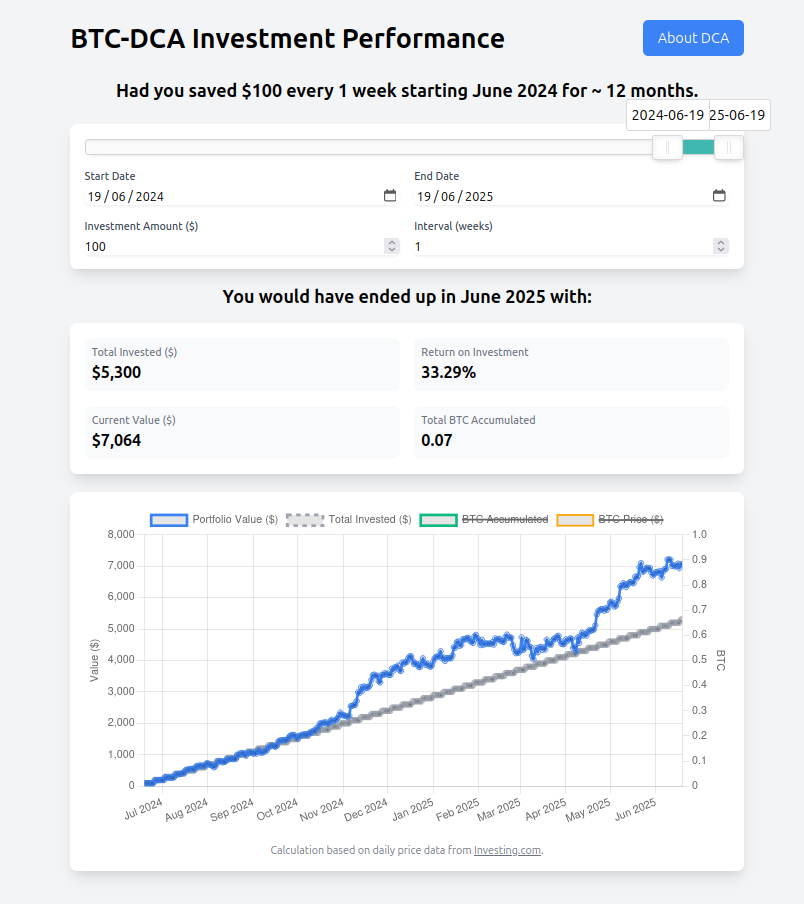
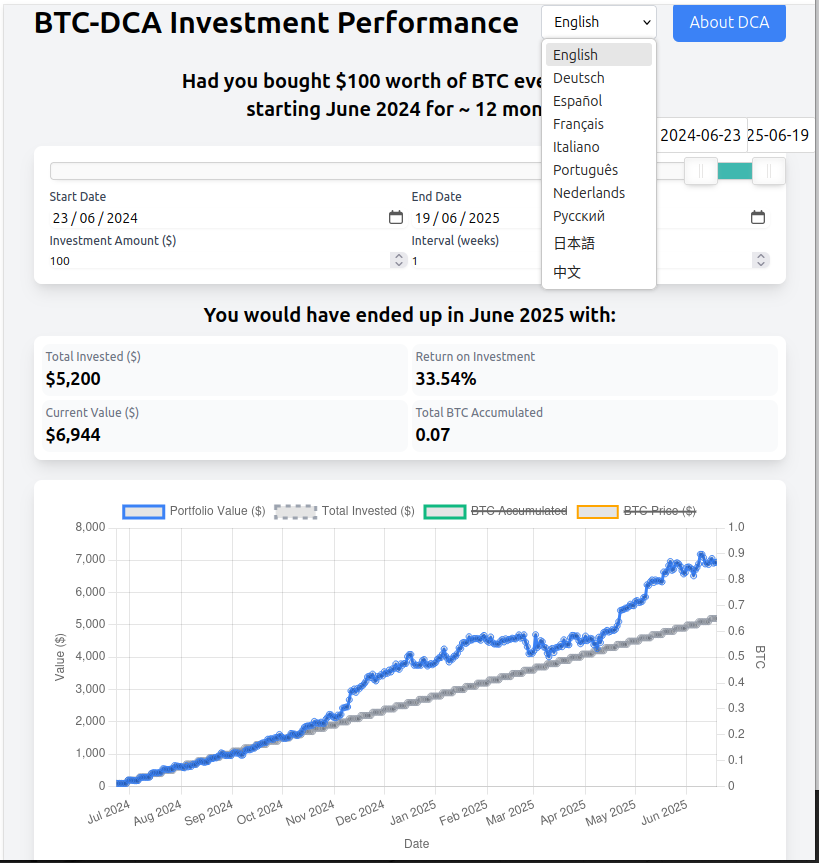
Update README.md and screenshot.png to reflect latest multilingual UI and features

Changed region(s): [[0.0, 0.0, 1.0, 1.0], [0.7774, 0.0, 0.9639, 0.0603], [0.9017, 0.241, 0.9328, 0.2711]]

diff --git a/README.md b/README.md
@@ -2,7 +2,7 @@
 
 ![Screenshot of BTC-DCA Calculator](screenshot.png)
 
-*A sample simulation showing DCA results and performance chart for Bitcoin.*
+*A sample simulation showing DCA results and performance chart for Bitcoin, with multilingual support.*
 
 A web application to visualize the results of a Bitcoin dollar-cost averaging (DCA) investment strategy using real historical price data. The app allows you to simulate what would have happened if you had regularly invested a fixed amount in Bitcoin over any period in the past.
 
@@ -11,6 +11,8 @@ This project is designed for full transparency and ease of use. All historical p
 ## Features
 
 - **Run Anywhere:** Works "out-of-the-box" by opening `index.html` locally. No web server needed.
+- **Multilingual Support:** Instantly switch between 10 languages (English, German, Spanish, French, Italian, Portuguese, Dutch, Russian, Japanese, Chinese) using the language selector in the main interface.
+- **Consistent USD Display:** All results and charts use the $ (USD) currency symbol for clarity, regardless of selected language.
 - **Interactive DCA Simulation:**
   - Drag-and-drop date range slider for easy period selection.
   - Set investment amount and interval (in weeks).
@@ -24,7 +26,7 @@ This project is designed for full transparency and ease of use. All historical p
   - Total invested, ROI, current value, and total BTC accumulated.
   - Dynamic summary showing investment period and frequency.
 - **About Modal:**
-  - Clickable "About DCA" popup with a plain-language explanation (in English and German).
+  - Clickable "About DCA" popup with a plain-language explanation, fully translated in all supported languages.
 
 ## How It Works: Data Flow
 
@@ -34,7 +36,7 @@ The data pipeline is designed to be manual and transparent, giving you full cont
 
 First, you manually download the historical daily price data for Bitcoin from Investing.com.
 
-![Screenshot of data source on Investing.com](Screenshot%20Invest%20Com.png)
+![Screenshot of data source on Investing.com](BTC-Price/Screenshot%20Invest%20Com.png)
 
 - Go to the [Investing.com Bitcoin Historical Data page](https://www.investing.com/crypto/bitcoin/historical-data).
 - Select your desired date range.
@@ -57,6 +59,7 @@ This workflow ensures that you can verify the data source and run the applicatio
 3.  Use the slider or date inputs to select your investment period.
 4.  Enter your desired investment amount and interval.
 5.  The results and chart will update automatically.
+6.  Use the language selector at the top to instantly switch between 10 languages.
 
 ## Technologies Used
 
